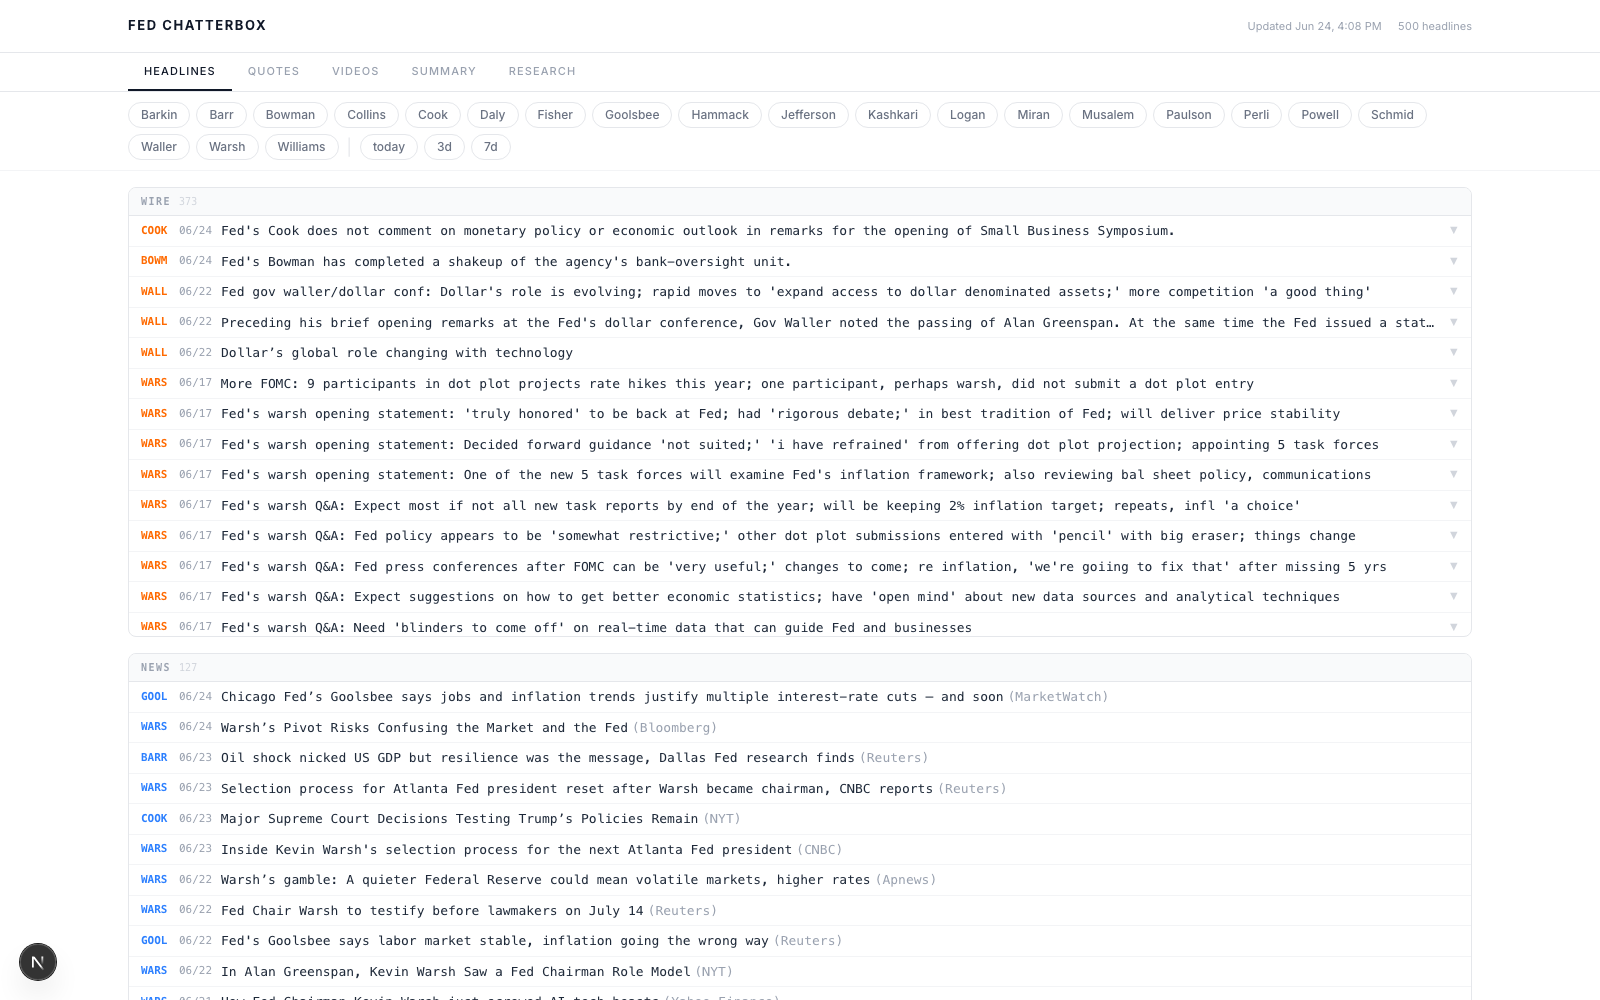
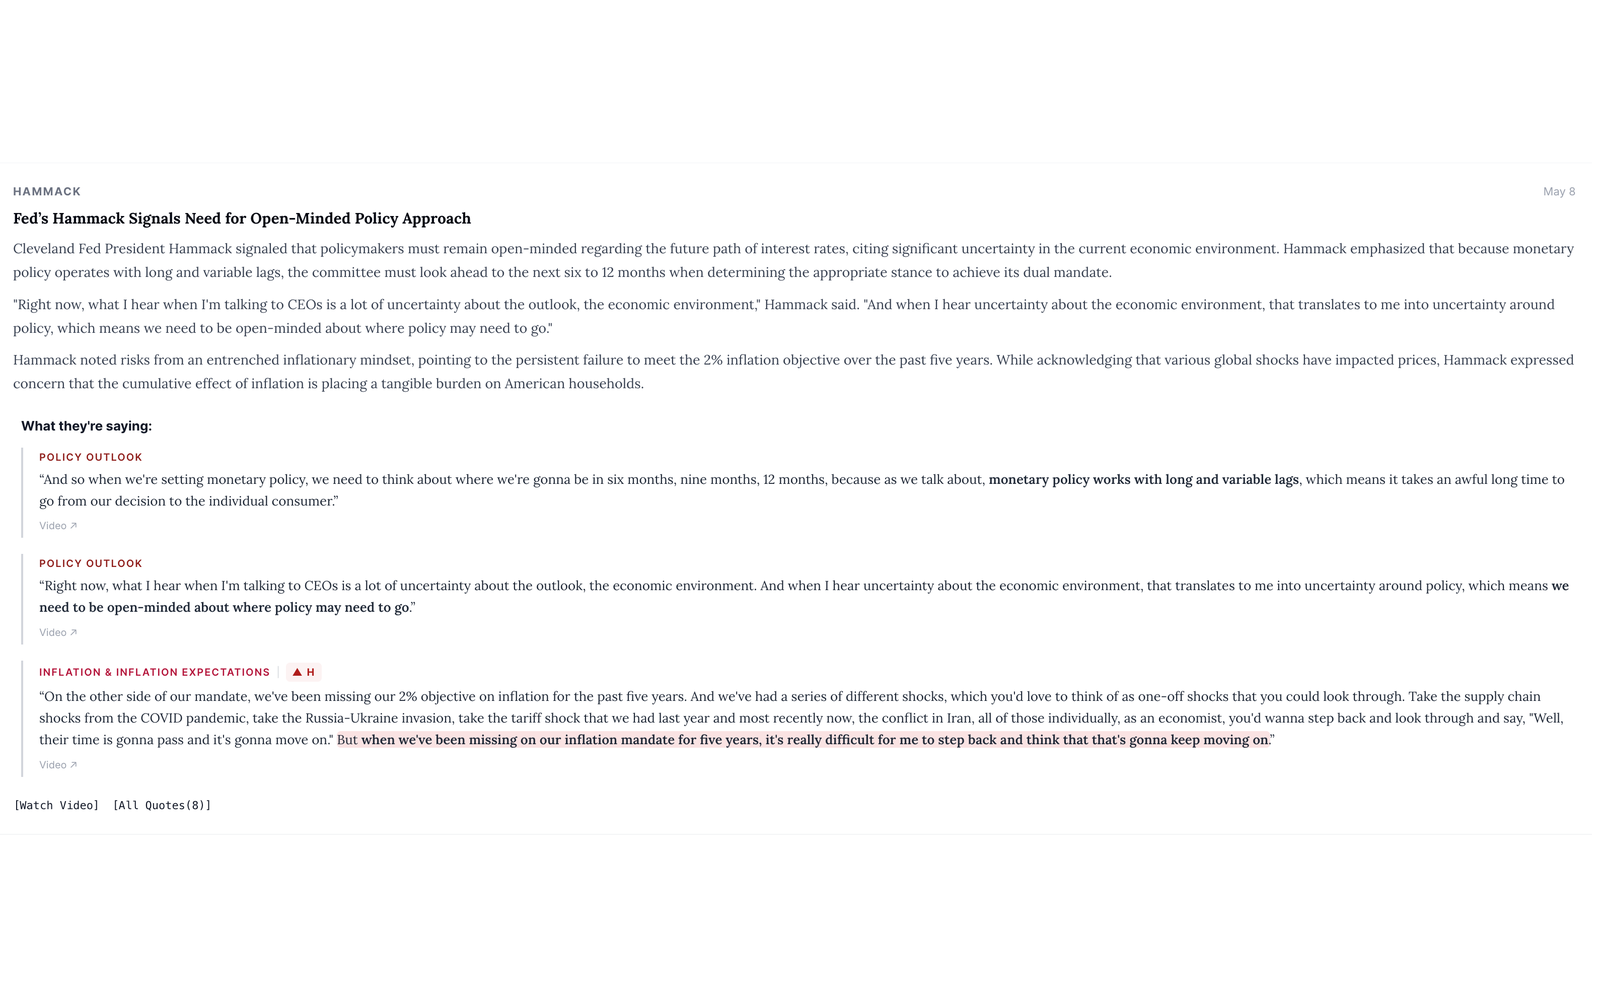
fix: use Emma's Hammack 'what they're saying' view for Fed Chatterbox cover (padded to 16:10), full in lightbox

diff --git a/designs/portfolio-redesign/Direction BC v2 — Kami Navy.html b/designs/portfolio-redesign/Direction BC v2 — Kami Navy.html
@@ -366,7 +366,7 @@
       </article>
 
       <article class="lab-card">
-        <div class="lab-thumb"><img src="assets/fed-chatterbox.png" alt="Fed Chatterbox" /></div>
+        <div class="lab-thumb"><img src="assets/fed-chatterbox.png" data-full="assets/fed-chatterbox-full.png" alt="Fed Chatterbox" /></div>
         <div class="lab-top"><span class="lab-id">fed-chatterbox</span><span class="status st-live">● Live</span></div>
         <h3>Fed Chatterbox</h3>
         <p>Tracks Federal Reserve communications and scores their policy direction, with a curated research feed and a newsletter. An LLM pipeline over central-bank speak.</p>